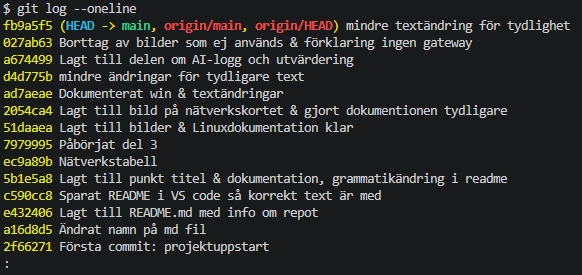
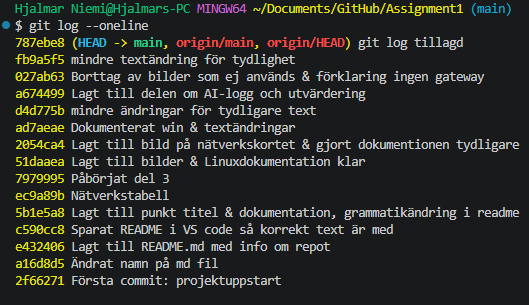
Textändring om Get-Acl & färdigställt uppgiften

diff --git a/Labbdokumentation.md b/Labbdokumentation.md
@@ -59,12 +59,15 @@ Ta fram behörighetsstrukturen:
 
 ![behörighet](images/rättigheter%20win1.png)  
 
-När vi endast använder `Get-Acl` kunde vi inte se allt under "Access". Om vi istället pipar vidare efter sökvägen med "|" & använder `Format-List` som skriver ut datan som en lodrät lista istället för en tabell samt `AccessToString` som skriver ut hela listan tydligare med radbrytningar:  
+När vi endast använder `Get-Acl` kunde inte allt ses under "Access" då tabellen är för bred. Om vi istället skickar vidare resultatet efter sökvägen med pipe `|` till `Format-List` kan vi skriva ut `Path`, `Owner` och `AccessToString` som en lodrät lista med all information:
 `Get-Acl "C:\Systementor\KonsultData" | Format-List Path, Owner, AccessToString`
 
 ![behörighet-lista](images/rättigheter-win.png)
 
-AccessToString visar nu: 1. Användare 2. Tillåt/Ej Tillåt 3. Rättighet
+Varje rad i AccessToString visar nu en användare eller grupp som har rättigheter och de tre kolumnerna visar:  
+ 1. IdentityReference (Användare/Grupp)
+ 2. AccessControlType (Allow/Deny)
+ 3. FileSystemRights (Rättighet)  
 
 
 Windows-VM:en kan nå Linux-VM:en genom ping:
@@ -79,7 +82,7 @@ Nätverksinställningar:
 
 [Länk till Git-Repo](https://github.com/HjalmarNiemi/assignment1.git)
 
-![git log](images/git%20log%20--oneline.png)
+![git log]()
 
 ## AI-Logg och Utvärdering
 
@@ -100,5 +103,5 @@ Däremot missade den att förklara att endast kommandot `sudo chown -R :` med ut
  / och /praktikanter:  
 `sudo chown -R :praktikanter / /praktikanter/data`
 
-Svaret som gavs av AI-vertyget verifierades genom manualsidan, `man chown` som bekräftar att chown används för att ändra behörighet, -R gör ändringar rekursivt, :grupp ändrar gruppägarskap utan att ändra filägare.  
+Svaret som gavs av AI-vertyget verifierades genom manualsidan, `man chown` som bekräftar att `chown` används för att ändra behörighet, `-R` gör ändringar rekursivt, `:grupp` ändrar gruppägarskap utan att ändra filägare.  
 Kommandot verifierades sedan även genom att det användes för att ändra gruppägare för mappen  `/var/systementor/konsultdata` och dess underkataloger och filer.
